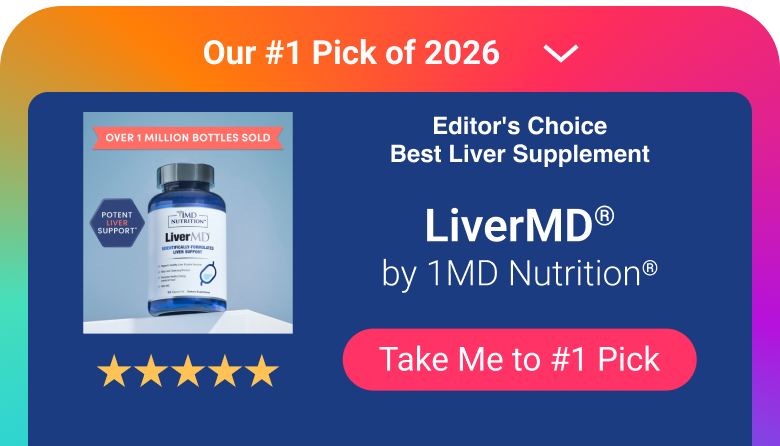
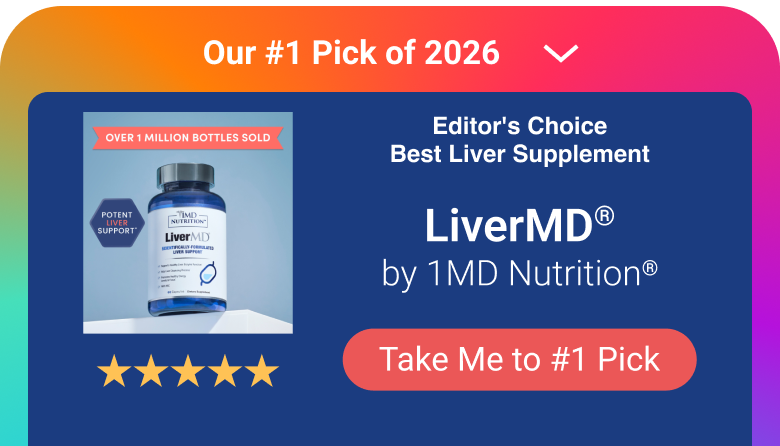
Fix Option 7 CTA color to #EB5757 and update its thumbnail
Was #FF3365 (pink) by mistake. Also refreshes the thumbnail and index
caption to reflect the corrected CTA color.

Changed region(s): [[0.4308, 0.7287, 0.8923, 0.8744]]

diff --git a/index.html b/index.html
@@ -154,7 +154,7 @@
       <a class="card" href="option-7.html" target="_blank" rel="noopener">
         <img class="thumb" src="images/thumbnails/option-7.png" alt="Option 7 modal preview">
         <h3>Option 7</h3>
-        <p>Rainbow gradient header, navy card, pink CTA</p>
+        <p>Rainbow gradient header, navy card, red CTA</p>
       </a>
     </div>
 

diff --git a/sr-modal.css b/sr-modal.css
@@ -406,7 +406,7 @@ body {
   --sr-body-bg: #1b3c80;
   --sr-eyebrow-color: #ffffff;
   --sr-name-color: #ffffff;
-  --sr-cta-bg: #ff3365;
+  --sr-cta-bg: #eb5757;
 }
 
 .sr-modal--spectrum-navy.sr-modal--framed {